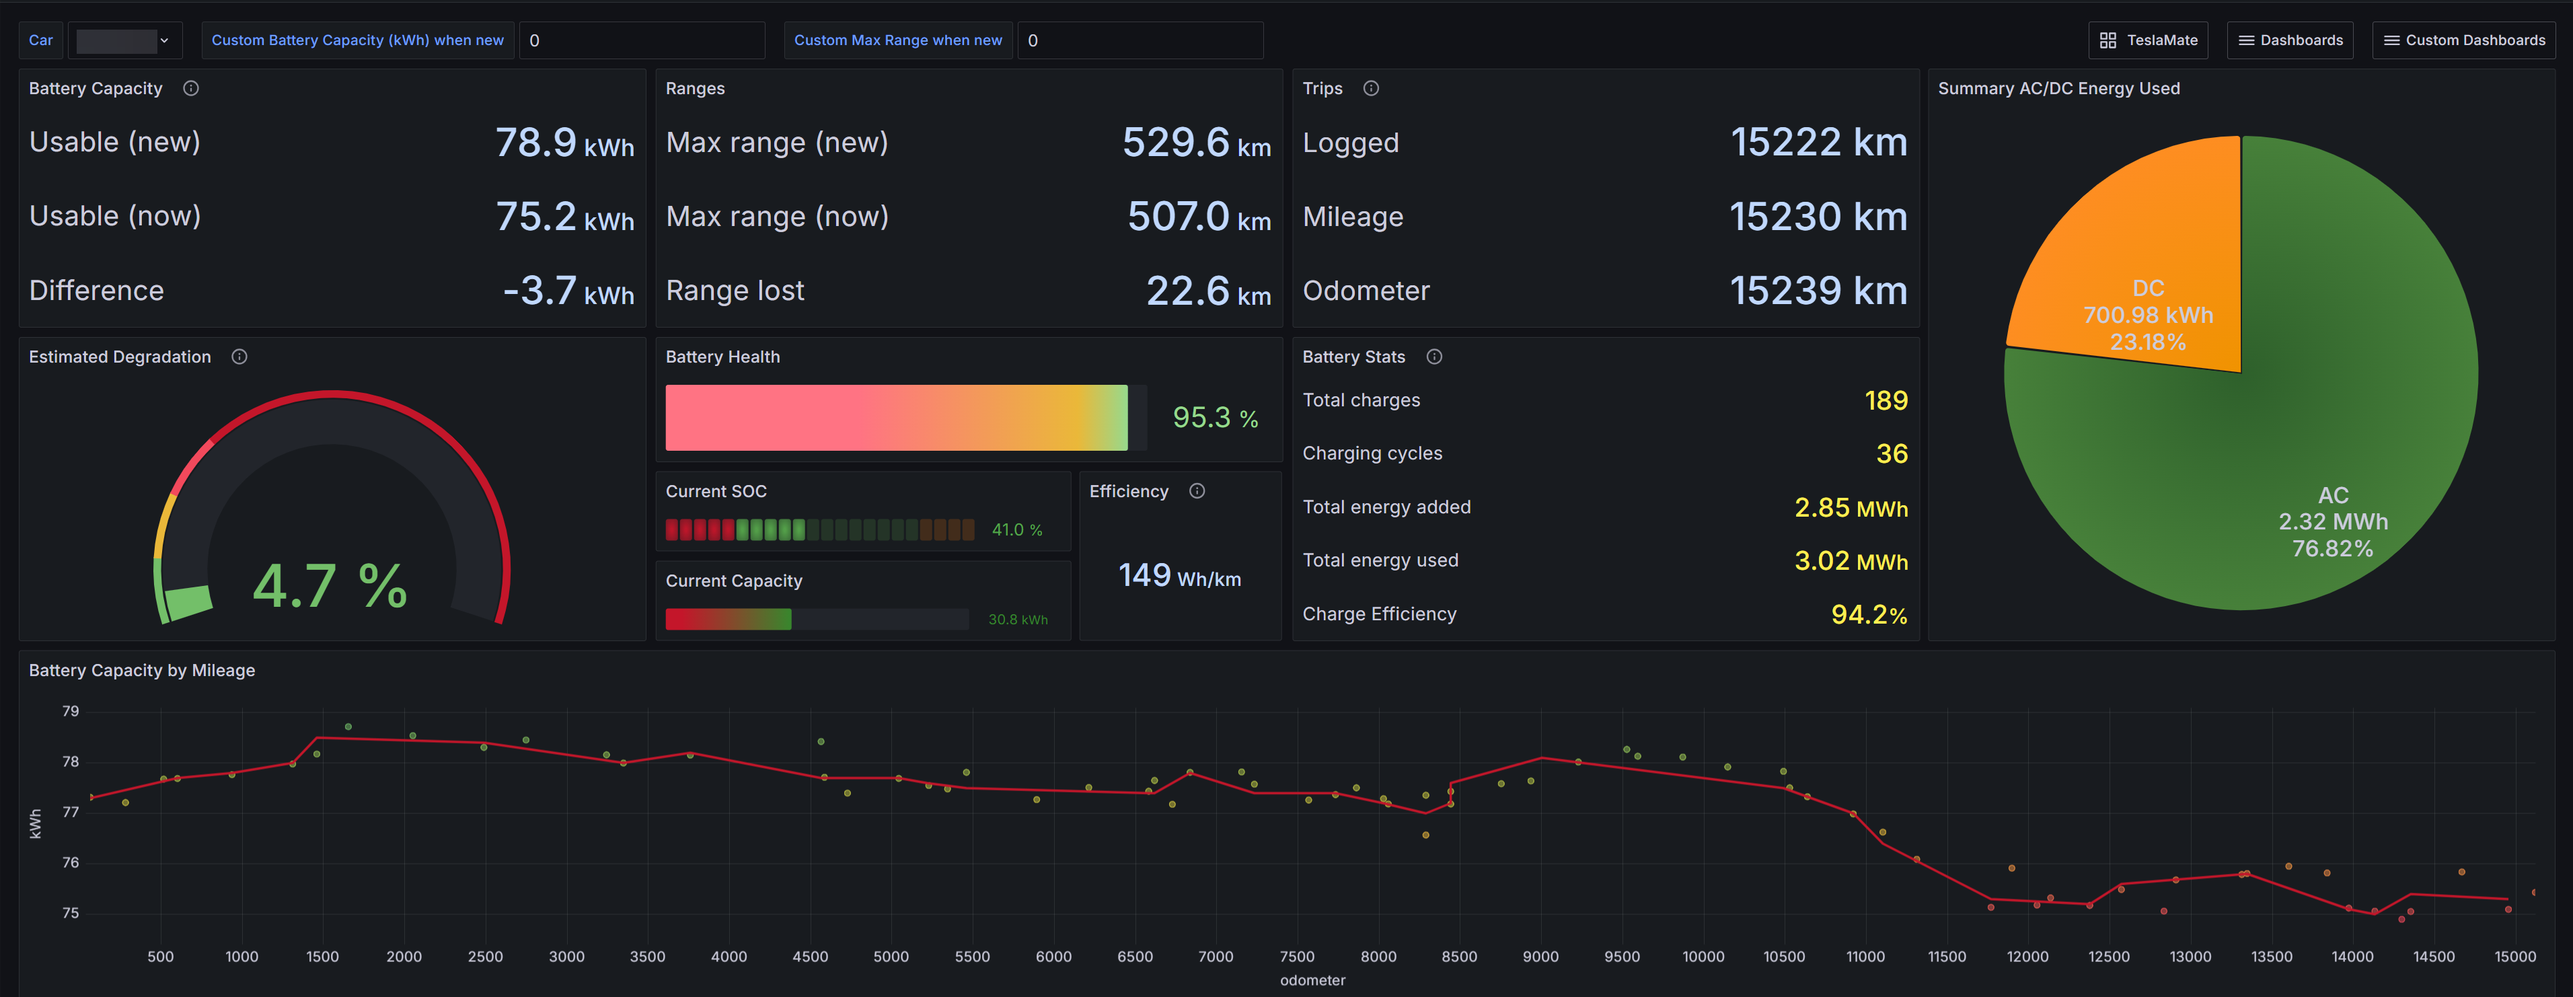
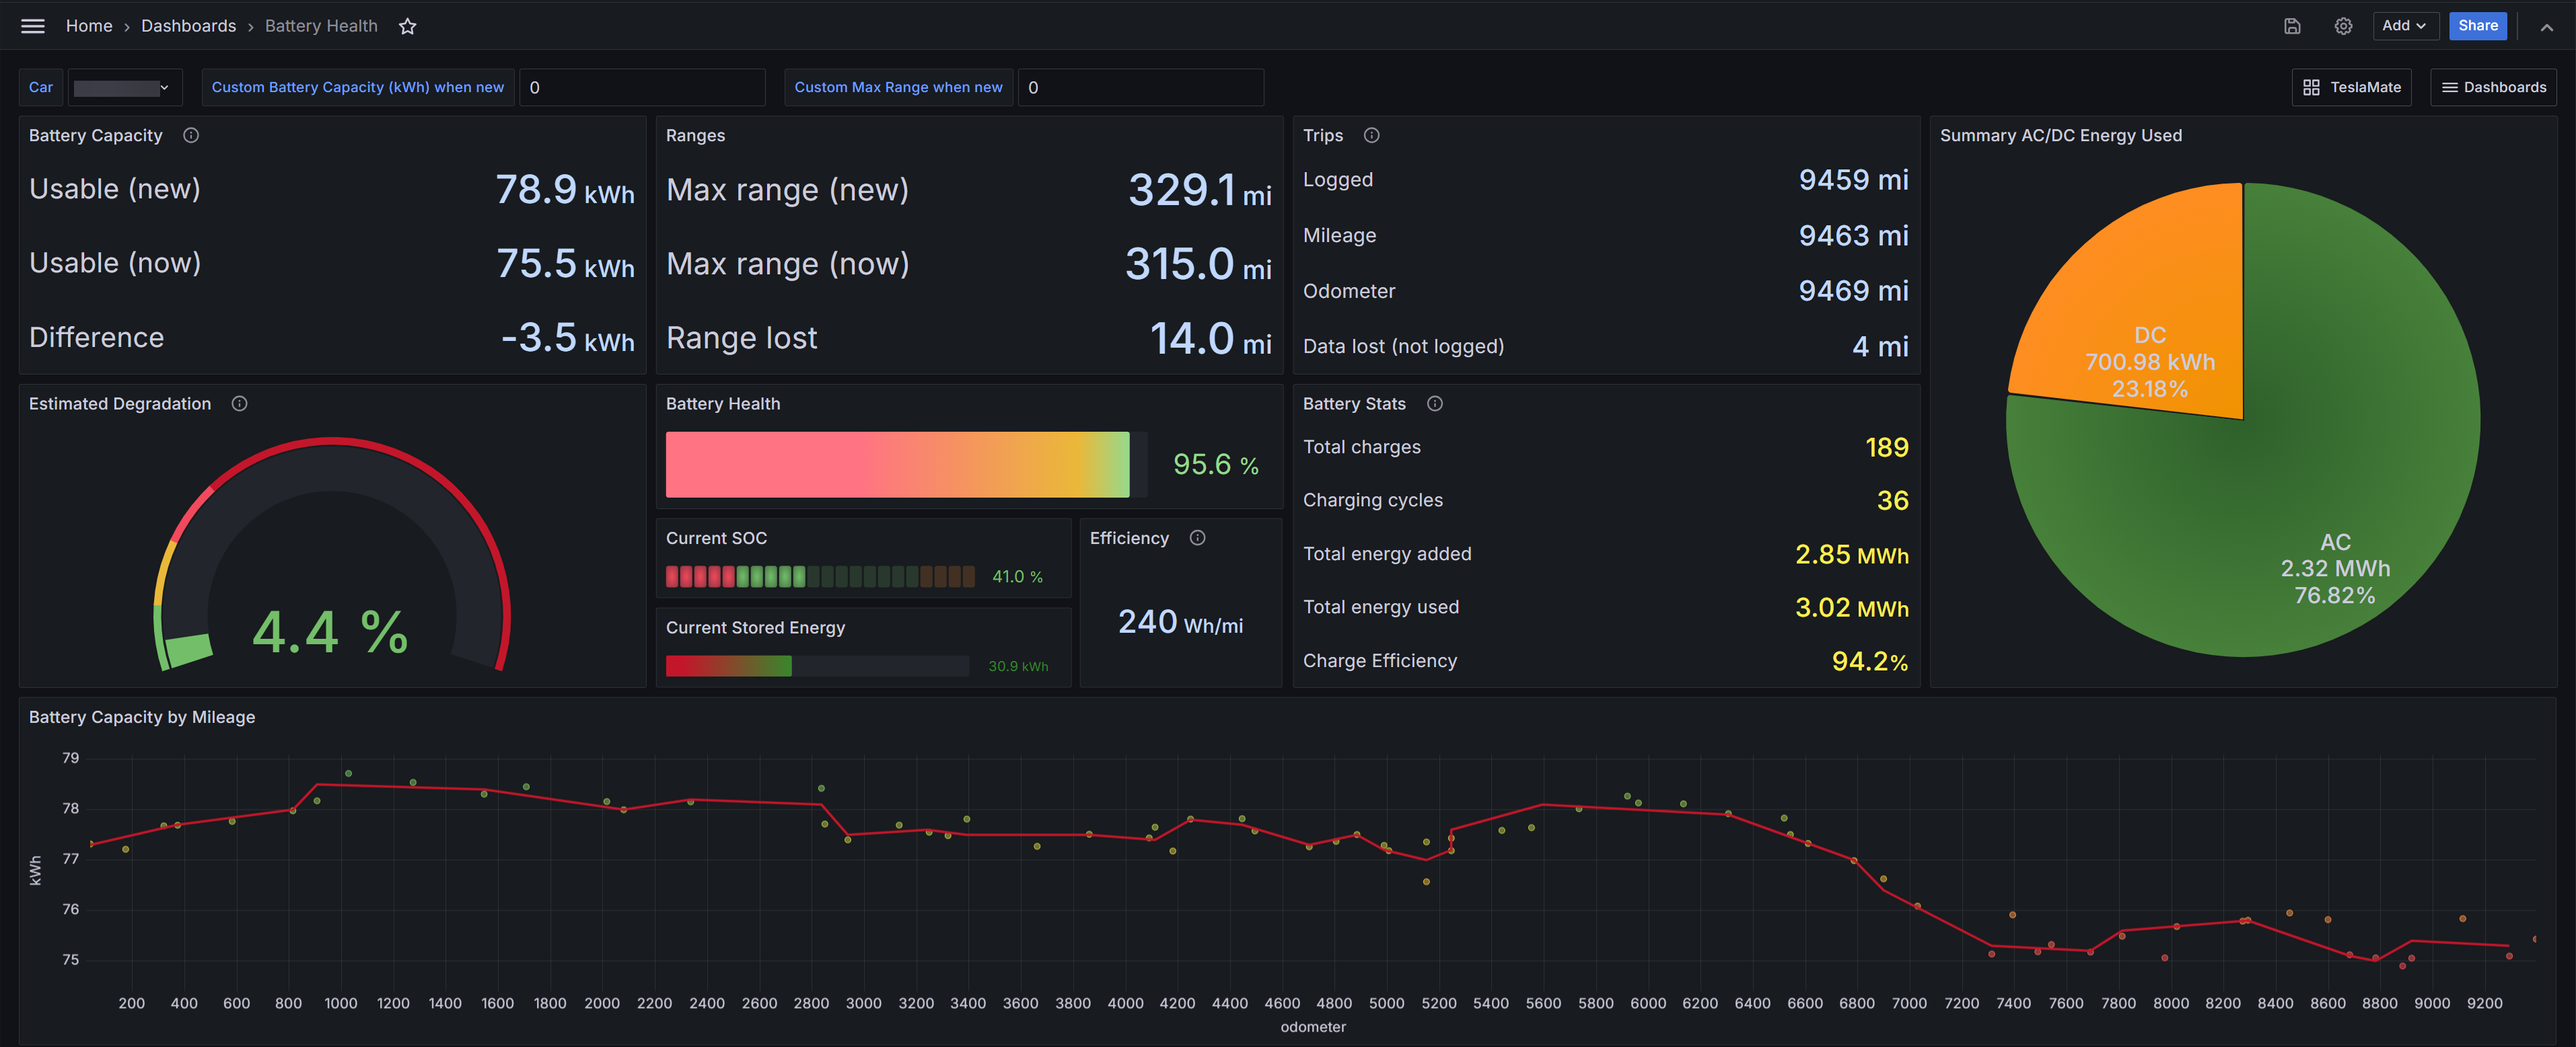
Improve visualizations on Battery Health dasboard (#4005)
* Updata labels and data

* Update screenshot

* Update Readme

* Update drive screenshot

diff --git a/README.md b/README.md
@@ -16,7 +16,7 @@ A powerful, self-hosted data logger for your Tesla.
 
 ## Documentation
 
-The documentation is available at [docs.teslamate.org](https://docs.teslamate.org/).
+The documentation is available at [https://docs.teslamate.org](https://docs.teslamate.org/)
 
 ## Features
 
@@ -50,8 +50,11 @@ The documentation is available at [docs.teslamate.org](https://docs.teslamate.or
 
 ## Screenshots
 
-![Drive Details](/website/static/screenshots/drive.png)
 ![Web Interface](/website/static/screenshots/web_interface.png)
+
+![Drive Details](/website/static/screenshots/drive.png)
+
+![Battery Health](/website/static/screenshots/battery-health.png)
 
 <p align="center">
   <strong><a href="https://docs.teslamate.org/docs/screenshots">MORE SCREENSHOTS</a></strong>
